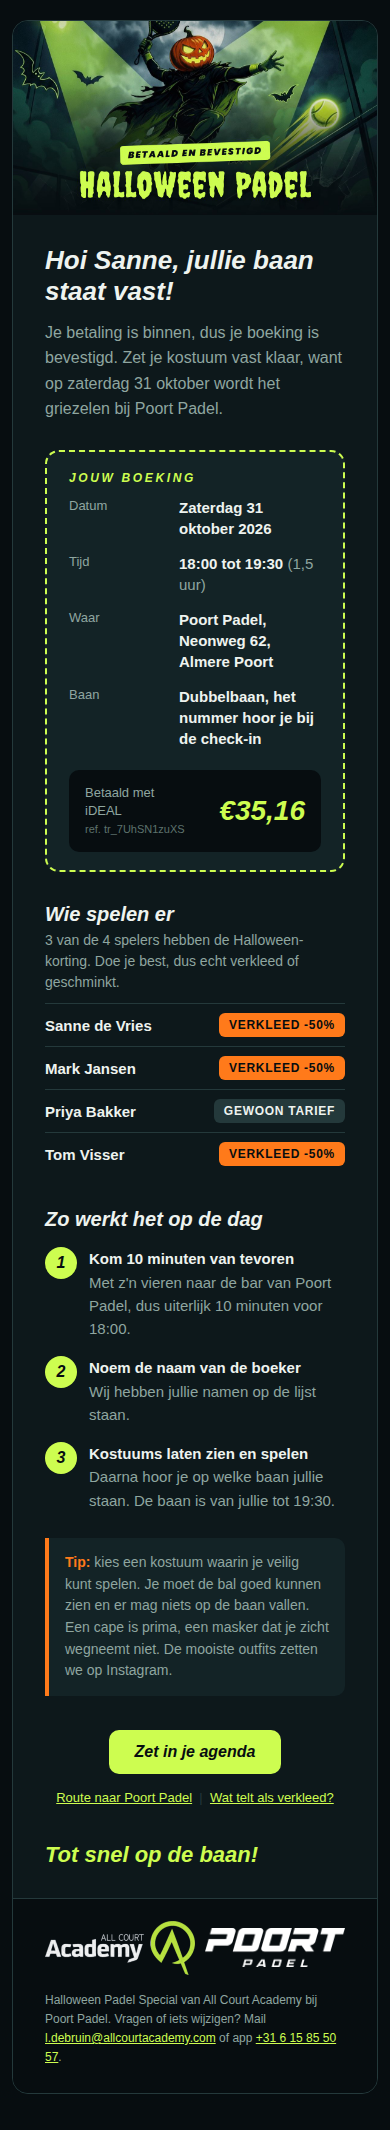
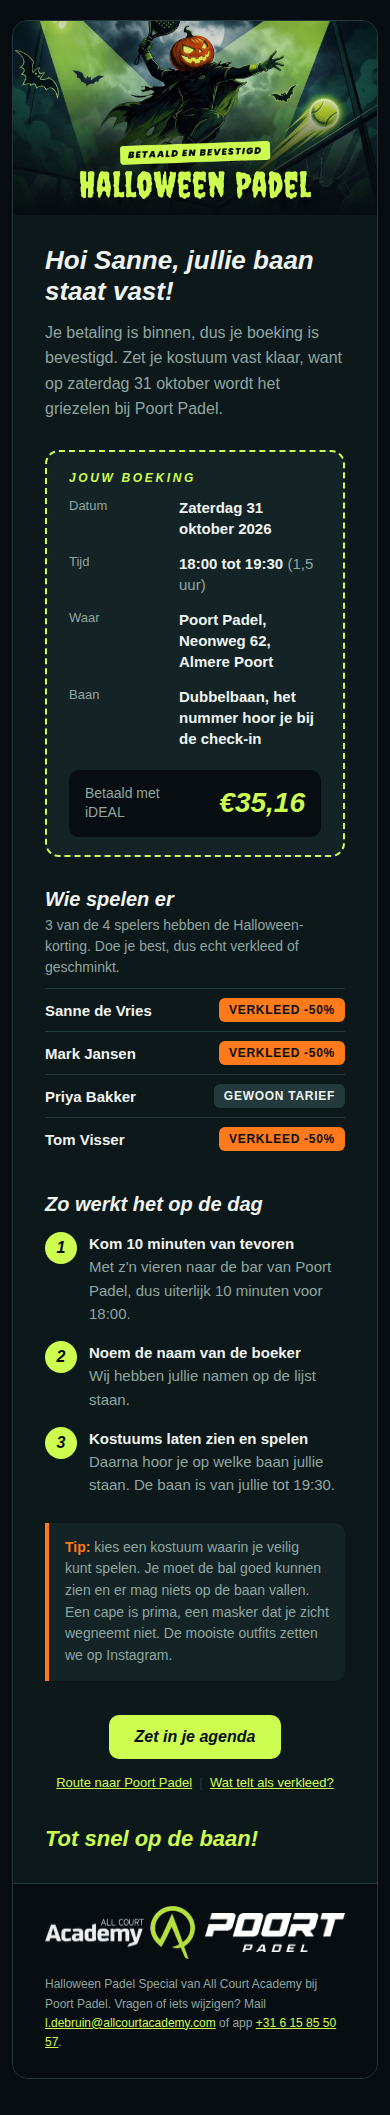
Bevestigingsmail: betaalreferentie weg, alleen "Betaald met iDEAL"
Claude-Session: https://claude.ai/code/session_01XvRhSgAuPfNbbAXDCSXsBF

Changed region(s): [[0.0923, 0.0312, 0.8923, 0.9674], [0.8615, 0.2184, 0.8923, 0.4057], [0.0923, 0.2184, 0.1231, 0.4057]]

diff --git a/events/2026-halloween-padel/mail/bevestigingsmail-make.html b/events/2026-halloween-padel/mail/bevestigingsmail-make.html
@@ -46,7 +46,7 @@
           <tr><td style="padding:6px 22px 18px">
             <table role="presentation" width="100%" cellpadding="0" cellspacing="0" border="0" style="background:#070d10;border-radius:10px">
               <tr>
-                <td style="padding:14px 16px;font:13px/1.4 Arial,Helvetica,sans-serif;color:#8fa6a0">Betaald met iDEAL<br><span style="font-size:11px;color:#5d726d">ref. {{2.id}}</span></td>
+                <td style="padding:14px 16px;font:14px/1.4 Arial,Helvetica,sans-serif;color:#8fa6a0">Betaald met iDEAL</td>
                 <td align="right" style="padding:14px 16px;font:900 italic 28px/1 Arial,Helvetica,sans-serif;color:#cdfd50;white-space:nowrap">€{{formatNumber(2.amount; 2; ","; ".")}}</td>
               </tr>
             </table>

diff --git a/events/2026-halloween-padel/mail/voorbeeld.html b/events/2026-halloween-padel/mail/voorbeeld.html
@@ -46,7 +46,7 @@
           <tr><td style="padding:6px 22px 18px">
             <table role="presentation" width="100%" cellpadding="0" cellspacing="0" border="0" style="background:#070d10;border-radius:10px">
               <tr>
-                <td style="padding:14px 16px;font:13px/1.4 Arial,Helvetica,sans-serif;color:#8fa6a0">Betaald met iDEAL<br><span style="font-size:11px;color:#5d726d">ref. tr_7UhSN1zuXS</span></td>
+                <td style="padding:14px 16px;font:14px/1.4 Arial,Helvetica,sans-serif;color:#8fa6a0">Betaald met iDEAL</td>
                 <td align="right" style="padding:14px 16px;font:900 italic 28px/1 Arial,Helvetica,sans-serif;color:#cdfd50;white-space:nowrap">€35,16</td>
               </tr>
             </table>

diff --git a/events/2026-halloween-padel/mail/build_mail.py b/events/2026-halloween-padel/mail/build_mail.py
@@ -73,7 +73,7 @@ SJABLOON = f"""<!doctype html>
           <tr><td style="padding:6px 22px 18px">
             <table role="presentation" width="100%" cellpadding="0" cellspacing="0" border="0" style="background:{NIGHT};border-radius:10px">
               <tr>
-                <td style="padding:14px 16px;font:13px/1.4 {FONT};color:{FOG}">Betaald met iDEAL<br><span style="font-size:11px;color:#5d726d">ref. [[mollie]]</span></td>
+                <td style="padding:14px 16px;font:14px/1.4 {FONT};color:{FOG}">Betaald met iDEAL</td>
                 <td align="right" style="padding:14px 16px;font:900 italic 28px/1 {FONT};color:{LIME};white-space:nowrap">€[[bedrag]]</td>
               </tr>
             </table>
@@ -140,7 +140,6 @@ def make_velden():
         "gstart": '{{replace(3.start; ":"; "")}}',
         "geind": '{{replace(3.eind; ":"; "")}}',
         "bedrag": '{{formatNumber(2.amount; 2; ","; ".")}}',
-        "mollie": "{{2.id}}",
         "nverkleed": '{{(length(3.vps) - length(replace(3.vps; "ja"; ""))) / 2}}',
     }
     for i, veld in enumerate(["3.naam", "3.s2", "3.s3", "3.s4"], 1):
@@ -154,7 +153,7 @@ def make_velden():
 def voorbeeld_velden(img):
     spelers = [("Sanne de Vries", True), ("Mark Jansen", True), ("Priya Bakker", False), ("Tom Visser", True)]
     v = {"img": img, "voornaam": "Sanne", "start": "18:00", "eind": "19:30", "duur": "1,5",
-         "gstart": "1800", "geind": "1930", "bedrag": "35,16", "mollie": "tr_7UhSN1zuXS", "nverkleed": "3"}
+         "gstart": "1800", "geind": "1930", "bedrag": "35,16", "nverkleed": "3"}
     for i, (naam, vk) in enumerate(spelers, 1):
         bron = AAN if vk else UIT
         v[f"speler{i}"], v[f"bg{i}"], v[f"fg{i}"], v[f"lbl{i}"] = naam, *bron
